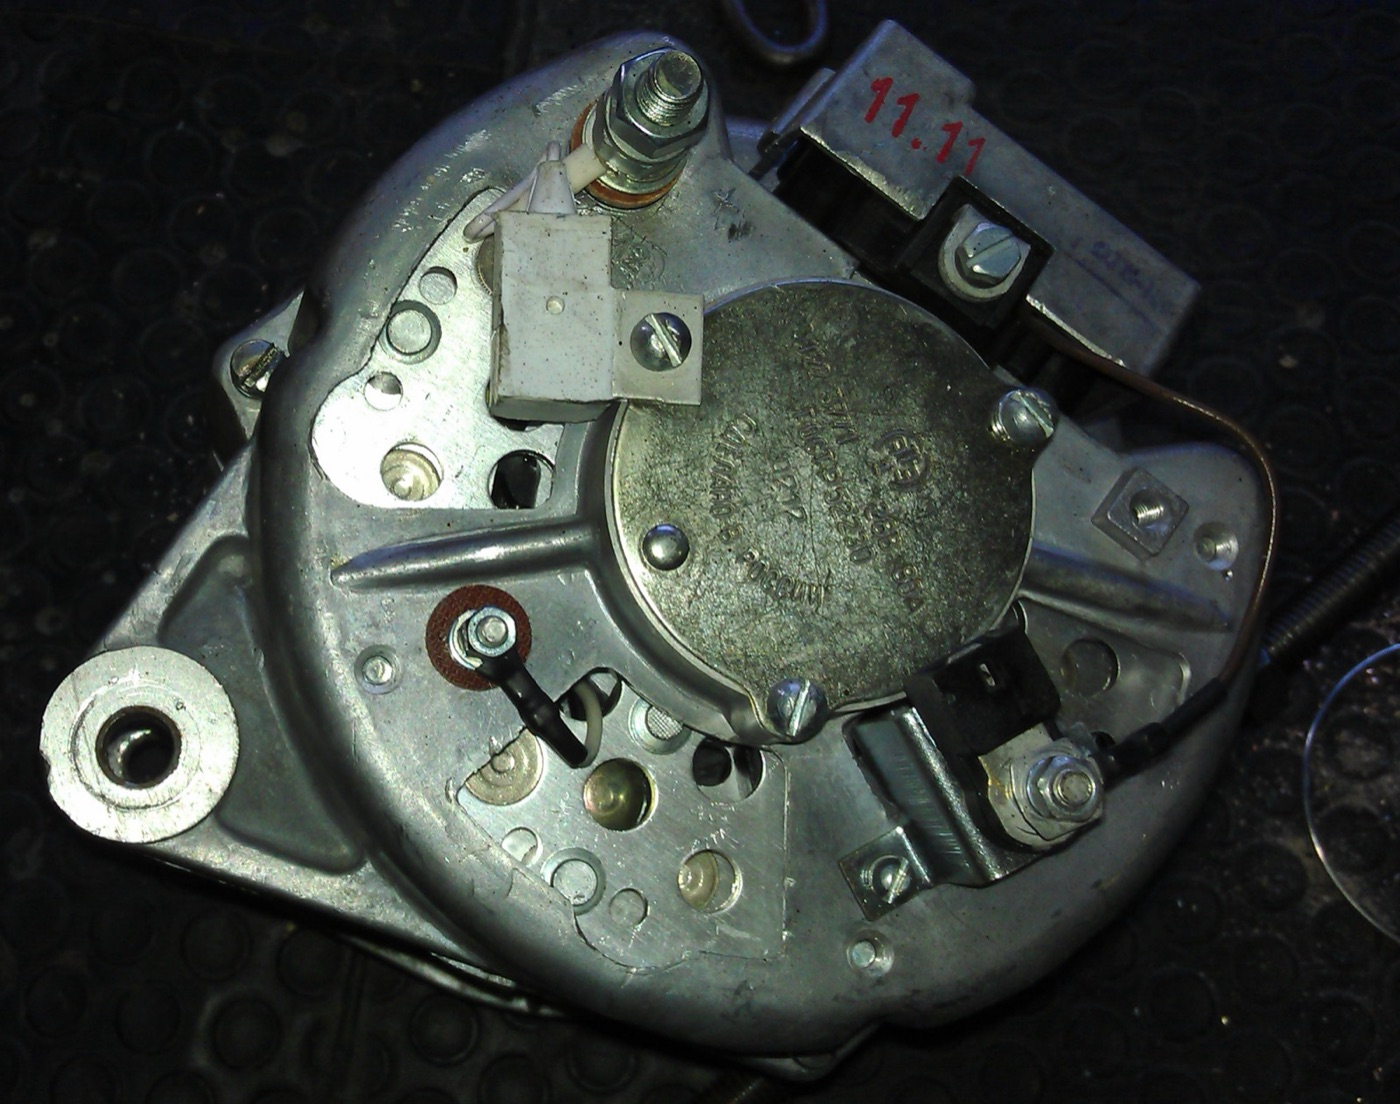
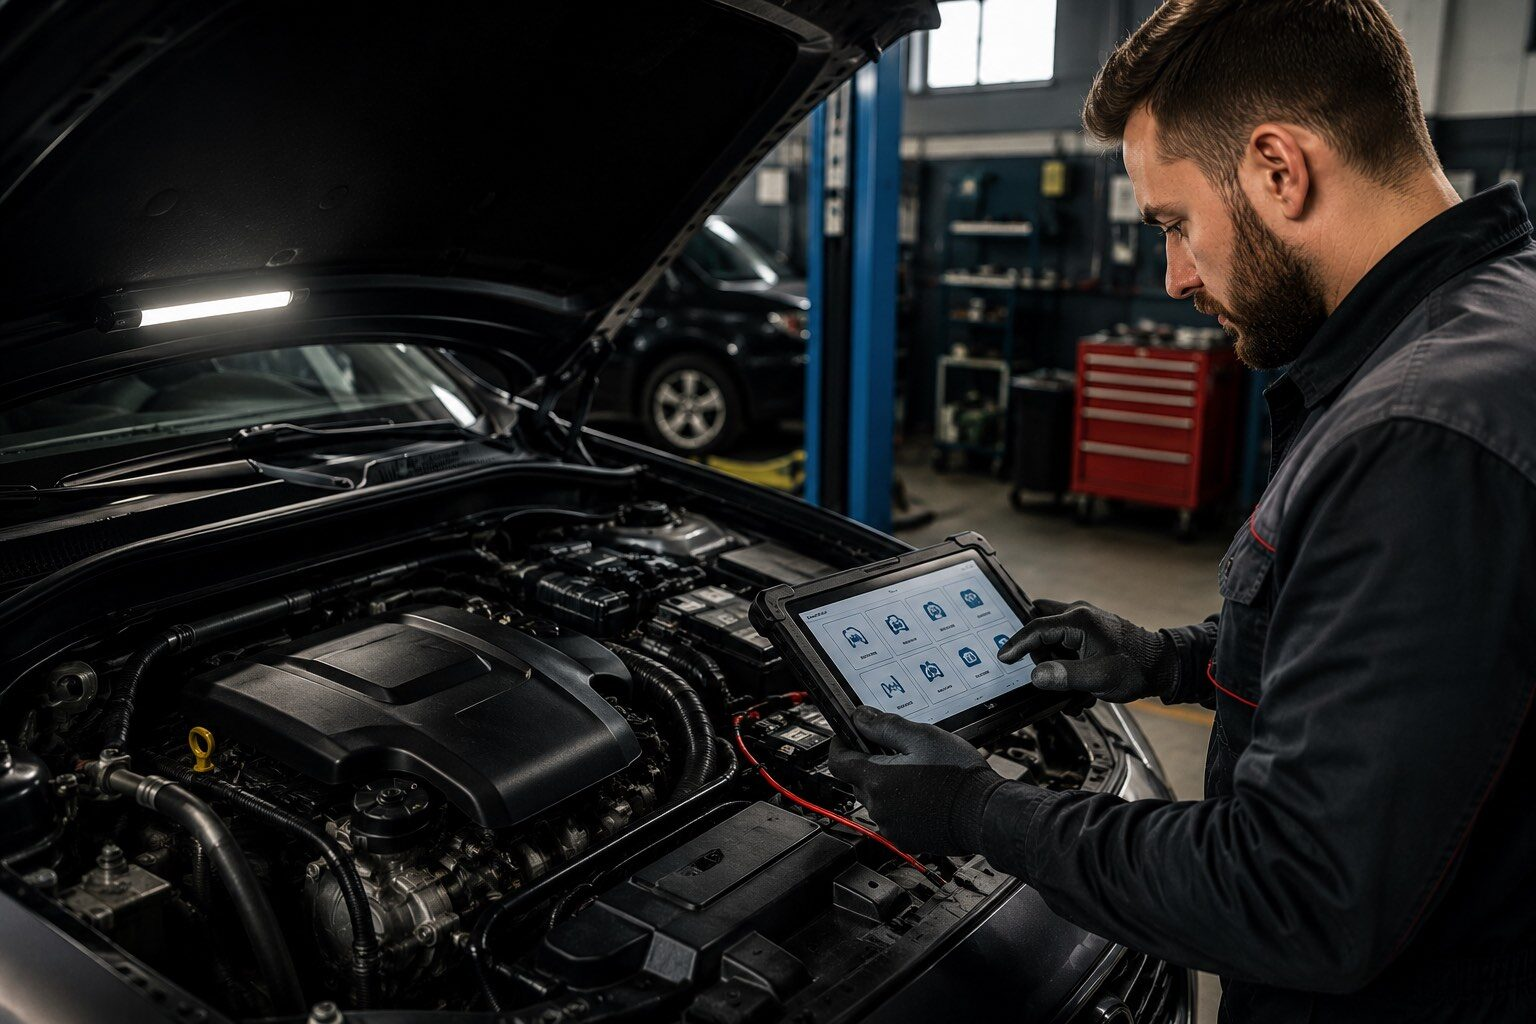
Services: use the client's starter and electrician photos
Replace the two Wikimedia service photos with images supplied by the
client. The starter shot is a small square product photo, so it gets
plate: true and the service cards/banner now honour the plate treatment
(contained on a light plate) the way the parts catalogue already does.
Credits move the two files under the client-provided entry.

diff --git a/content/images.ts b/content/images.ts
@@ -53,9 +53,9 @@ export const partImages: Record<string, ImageAsset> = {
 
 /** Keyed by service slug. */
 export const serviceImages: Record<string, ImageAsset> = {
-  "reparatii-demaroare": { src: "/img/s-reparatii-demaroare.jpg", width: 1400, height: 788 },
+  "reparatii-demaroare": { src: "/img/s-reparatii-demaroare.jpg", width: 900, height: 900, plate: true },
   "reparatii-alternatoare": { src: "/img/s-reparatii-alternatoare.jpg", width: 1400, height: 932 },
-  "electrician-auto": { src: "/img/s-electrician-auto.jpg", width: 1400, height: 1104 },
+  "electrician-auto": { src: "/img/s-electrician-auto.jpg", width: 1536, height: 1024 },
 };
 
 /**
@@ -133,6 +133,8 @@ export const credits: Credit[] = [
       "/img/hero-team.jpg",
       "/img/predare-cheie.jpg",
       "/img/hero-workshop.jpg",
+      "/img/s-reparatii-demaroare.jpg",
+      "/img/s-electrician-auto.jpg",
     ],
     title: "Imagini de brand și fotografii furnizate de client",
     author: "Starter Plus SRL",
@@ -196,13 +198,6 @@ export const credits: Credit[] = [
     source: "https://commons.wikimedia.org/wiki/File:Delcoribo.jpg",
   },
   {
-    files: ["/img/s-reparatii-demaroare.jpg"],
-    title: "Magneton anlaser za Zastavu",
-    author: "Wikimedia Commons contributor",
-    licence: "CC BY-SA 4.0",
-    source: "https://commons.wikimedia.org/wiki/File:Magneton_anlaser_za_Zastavu.jpg",
-  },
-  {
     files: ["/img/s-reparatii-alternatoare.jpg"],
     title: "Alternator",
     author: "Wikimedia Commons contributor",
@@ -224,13 +219,6 @@ export const credits: Credit[] = [
     author: "Bosch, Valeo, Denso, ACDelco, Marelli, INA, LuK",
     licence: "PD-textlogo / trademark of the owner",
     source: "https://commons.wikimedia.org/wiki/Category:Automotive_company_logos",
-  },
-  {
-    files: ["/img/s-electrician-auto.jpg"],
-    title: "Automotive alternator. Terminals",
-    author: "Wikimedia Commons contributor",
-    licence: "CC BY-SA 3.0",
-    source: "https://commons.wikimedia.org/wiki/File:Automotive_alternator._Terminals.jpg",
   },
 ];
 

diff --git a/app/[locale]/servicii/page.tsx b/app/[locale]/servicii/page.tsx
@@ -73,7 +73,11 @@ export default async function ServicesIndexPage({ params }: Params) {
                   className="card card-hover flex flex-col"
                 >
                   {serviceImages[service.slug] && (
-                    <div className="media aspect-[16/10]">
+                    <div
+                      className={`media aspect-[16/10] ${
+                        serviceImages[service.slug].plate ? "media-plate" : ""
+                      }`}
+                    >
                       <Image
                         src={serviceImages[service.slug].src}
                         alt={item.short ?? item.title}

diff --git a/app/[locale]/servicii/[slug]/page.tsx b/app/[locale]/servicii/[slug]/page.tsx
@@ -82,7 +82,12 @@ export default async function ServicePage({ params }: Params) {
       {serviceImages[slug] && (
         <section className="pb-[clamp(28px,3.5vw,48px)]">
           <div className="shell">
-            <div data-reveal className="card media aspect-[21/9]">
+            <div
+              data-reveal
+              className={`card media aspect-[21/9] ${
+                serviceImages[slug].plate ? "media-plate" : ""
+              }`}
+            >
               <Image
                 src={serviceImages[slug].src}
                 alt={doc.short ?? doc.title}

diff --git a/app/[locale]/page.tsx b/app/[locale]/page.tsx
@@ -164,7 +164,7 @@ export default async function HomePage({
                   className="card card-hover group flex flex-col"
                 >
                   {img && (
-                    <div className="media aspect-[16/10]">
+                    <div className={`media aspect-[16/10] ${img.plate ? "media-plate" : ""}`}>
                       <Image
                         src={img.src}
                         alt={doc.short ?? doc.title}
